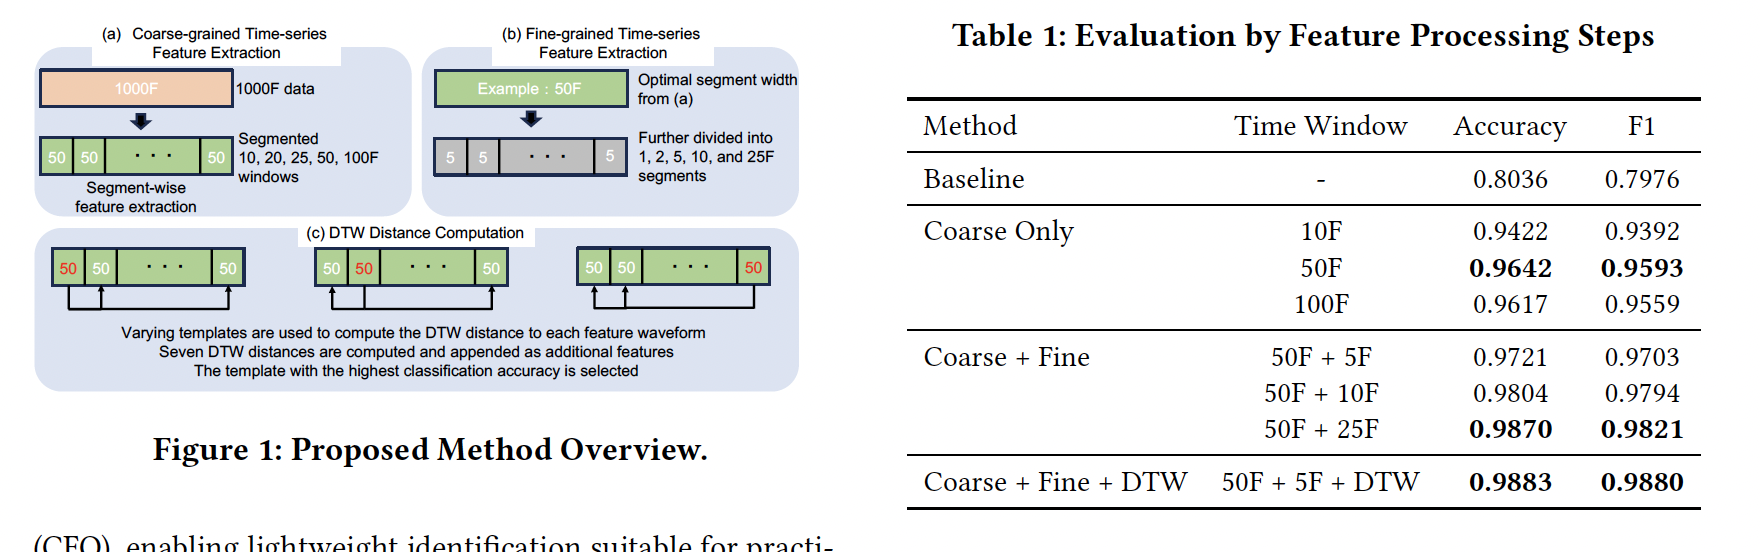
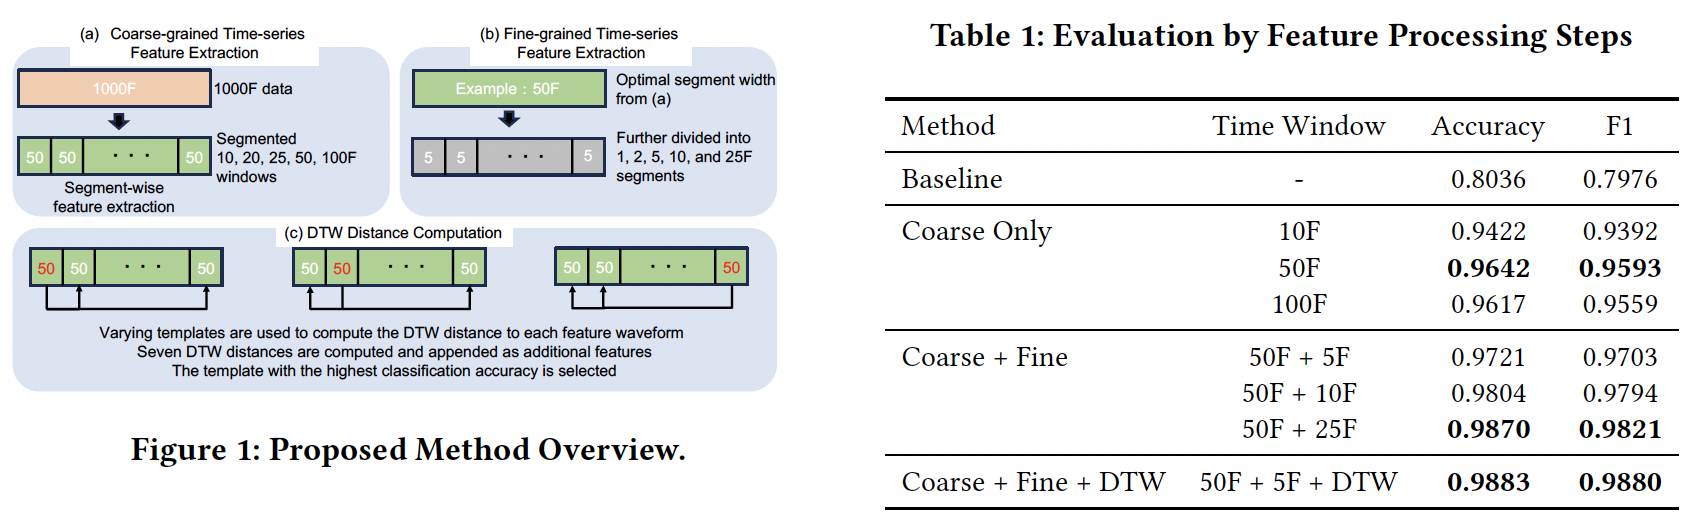
update post figure

diff --git a/_posts/2025-11-07-mobicom.md b/_posts/2025-11-07-mobicom.md
@@ -17,7 +17,8 @@ We're excited to share that our research on wireless security was featured at AC
 <div class="image-wrapper medium">
     <img src="{{ site.baseurl }}/assets/img/2025-mobicom2025-research.png" 
          alt="RFID security research diagram showing intermodulation attacks" 
-         class="blog-post-image">
+         class="blog-post-image"
+         style="max-width: 100%; height: auto; display: block;">
     <div class="image-caption">Our research explores novel approaches to wireless security and device identification</div>
 </div>
 
